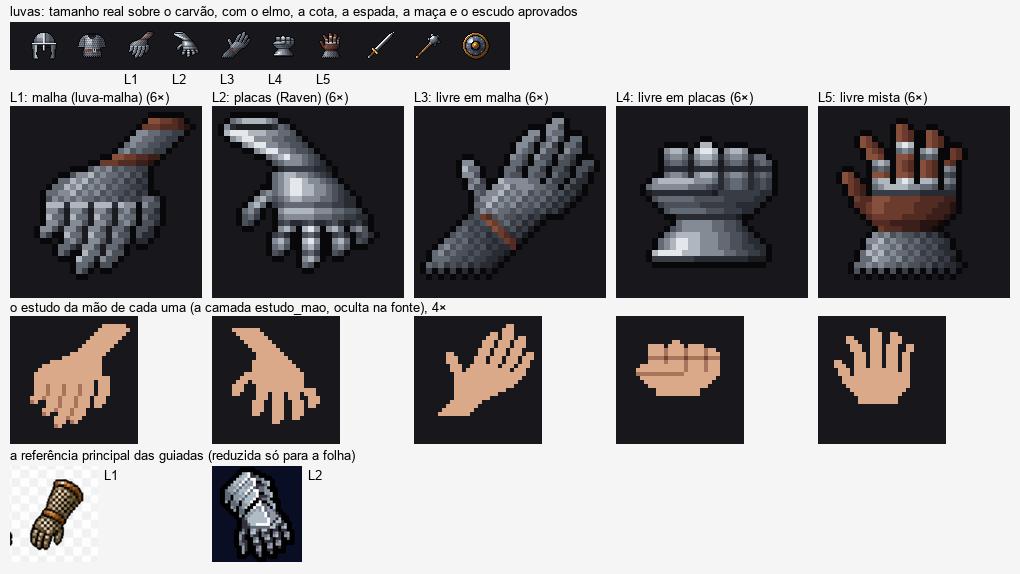
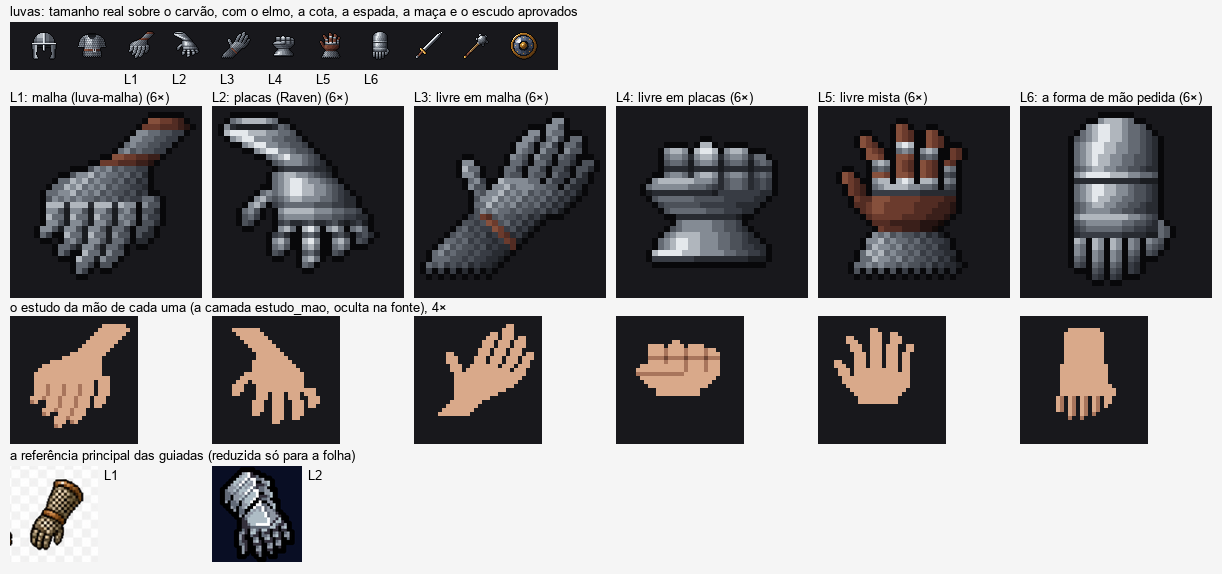
Proposta: L6, a forma de mão de pé pedida pelo Jean (nada no jogo)
Só a forma de uma mão enluvada de uma imagem que o Jean mostrou na
conversa (não guardada): a luva de pé, o punho com o topo arredondado, as
costas da mão da largura dele, os quatro dedos curtos juntos com as pontas
em arco, o polegar no canto de baixo dobrando para baixo. Estudo da mão
oculto por baixo; o ferro da família por cima, sem os detalhes nem as cores
da imagem. 32 e @2x; composto = exportação; na prancha lote-luvas.png.

diff --git a/ferramentas/prototipos/hud/itens-lote-noite/bandagem_pocao/auxiliares/montar.py b/ferramentas/prototipos/hud/itens-lote-noite/bandagem_pocao/auxiliares/montar.py
@@ -614,7 +614,8 @@ def lote_exploracao():
     lion = Image.open(REF / "calça/1.gif").convert("RGBA").crop((430, 170, 560, 300))
     grupos = {
         "luvas": [("L1", "malha (luva-malha)", REF / "Luvas/luva-malha.png"), ("L2", "placas (Raven)", raven),
-                  ("L3", "livre em malha", None), ("L4", "livre em placas", None), ("L5", "livre mista", None)],
+                  ("L3", "livre em malha", None), ("L4", "livre em placas", None), ("L5", "livre mista", None),
+                  ("L6", "a forma de mão pedida", None)],
         "pernas": [("P1", "malha (calca-malha)", REF / "calça/calca-malha.png"), ("P2", "placas (Lion Knight)", lion),
                    ("P3", "livre em malha", None), ("P4", "livre mista", None), ("P5", "livre em placas", None)],
     }
@@ -622,11 +623,11 @@ def lote_exploracao():
     for nome, cands in grupos.items():
         luvas = nome == "luvas"
         H = 22 + 52 + 10 + 18 + L + (18 + 128 if luvas else 0) + 26 + L // 2 + 12
-        W = 10 + 5 * (L + 10)
+        W = 10 + len(cands) * (L + 10)
         o = Image.new("RGB", (W, H), (245, 245, 245)); d = ImageDraw.Draw(o)
         d.text((10, 4), f"{nome}: tamanho real sobre o carvão, com o elmo, a cota, a espada, a maça e o escudo aprovados", fill=(0, 0, 0), font=FONTE)
         ims = [Image.open(P / f"{c}-32.png").convert("RGBA") for c, _, _ in cands]
-        f = Image.new("RGBA", (10 * 48 + 20, 48), (24, 24, 28, 255))
+        f = Image.new("RGBA", ((len(cands) + 5) * 48 + 20, 48), (24, 24, 28, 255))
         for k, im in enumerate(ap[:2] + ims + ap[2:]):
             f.alpha_composite(im, (10 + k * 48 + 8, 8))
         o.paste(f.convert("RGB"), (10, 22))

diff --git a/ferramentas/prototipos/hud/itens-lote-noite/LEIA-ME.md b/ferramentas/prototipos/hud/itens-lote-noite/LEIA-ME.md
@@ -2442,3 +2442,12 @@ aprovadas; ampliados 6× sem suavização; nas luvas, o estudo da mão de cada u
 com `PASTA=.../favoritos/A` ou `B`, `ROTULO=favoritos-A` ou `-B`, `SO_PROPOSTA=1`). Os favoritos são a minha avaliação,
 não aprovação: L3 e L2 nas luvas (uma de malha, uma de placas), P1 e P4 nas pernas.
 
+**L6, a forma de mão pedida (20/10/2026, depois do lote):** o Jean mostrou na conversa uma imagem de banco (um par de
+manoplas de pé, com marca d'água; não guardada no projeto) e pediu só a forma da mão enluvada, para ter essa base: nem os
+detalhes, nem as cores, nem o arranjo das placas dela. A forma: a luva de pé, o punho em cima com o topo arredondado,
+quase metade da altura; as costas da mão da largura do punho; os quatro dedos curtos (2 px), juntos, separados pela
+linha do contorno até os nós, alinhados do lado do mínimo, as pontas em arco (os dois do meio mais longos); o polegar
+pequeno no canto de baixo do outro lado, dobrando para baixo, separado do indicador por um entalhe. O estudo da mão nua
+por baixo (oculto) e o ferro da família por cima: o punho com uma lâmina, a linha dos nós, os dedos acesos à esquerda.
+Fonte `fontes/L6/L6-32.aseprite`, PNGs em `proposta/`; composto = exportação; @2x exato; na prancha `lote-luvas.png`.
+

diff --git a/roadmapIDEIAS/00-COMECE-AQUI.md b/roadmapIDEIAS/00-COMECE-AQUI.md
@@ -4828,4 +4828,6 @@ Tudo no protótipo (`ferramentas/prototipos/hud/LEIA-ME.md`, as seções de mesm
   `lote-favoritos-ficha.png` (favoritos: L3 e L2; P1 e P4; minha avaliação). Referências novas versionadas com papel.
 - **Aguardando avaliação.** Nada integrado; a versão continua 1.146.0; a cota e o elmo intocados; botas, martelo e
   outros itens não começaram.
+- **Depois do lote (20/10/2026):** o L6, a forma de mão de uma imagem que o Jean mostrou (só a forma da mão enluvada de
+  pé, os quatro dedos curtos juntos em arco e o polegar no canto; sem detalhes nem cores dela), no lote, não aprovado.
 
